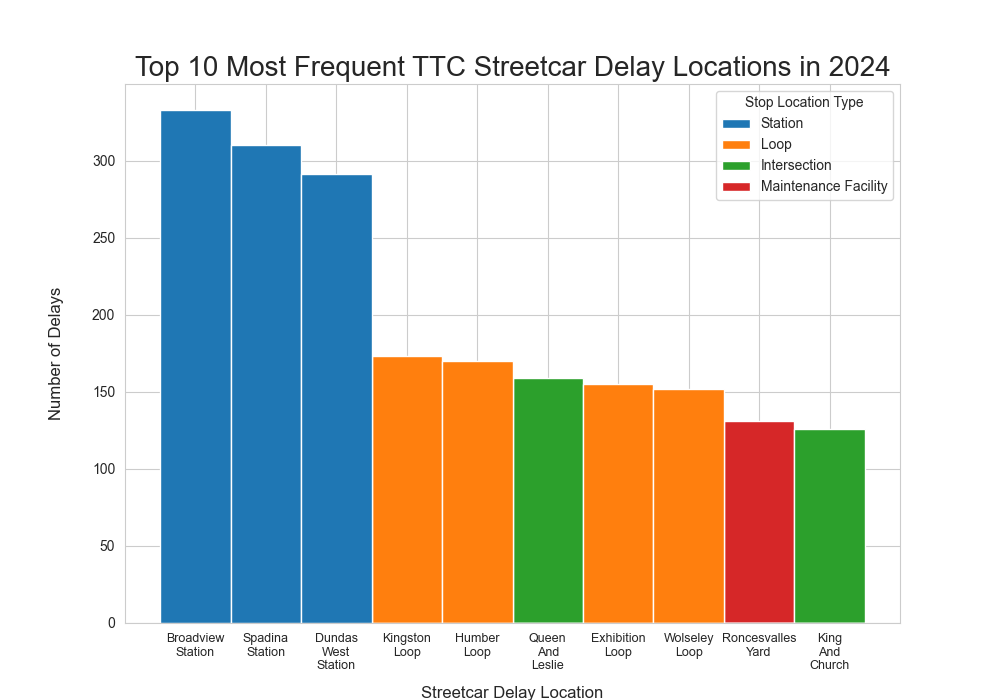
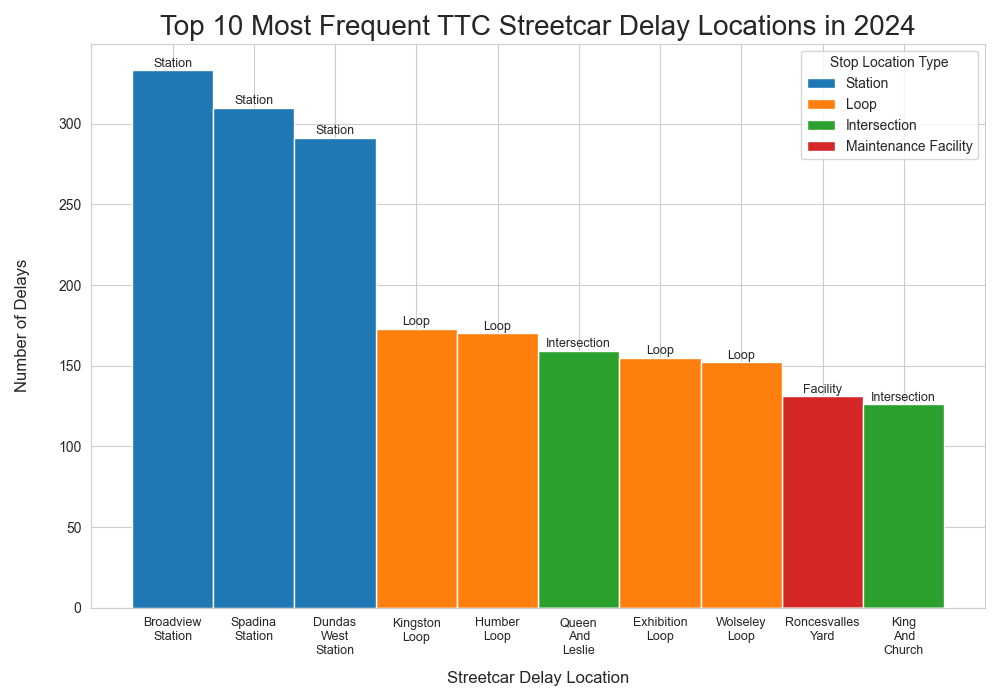
updated the assignment_3 markdown, added a screenshot of the excel spreadsheet, added accessibility features to the delay locations visualization

diff --git a/02_activities/assignments/ttc-delay.py b/02_activities/assignments/ttc-delay.py
@@ -82,5 +82,28 @@ frequent_stop_hist.set_ylabel('Number of Delays',
                               labelpad=20 # shifting axis label left for readability
                               )
 
+# labels for each bar
+bar_labels = ['Station', 'Station', 'Station', 'Loop', 'Loop', 'Intersection', 'Loop', 'Loop', 'Facility', 'Intersection']
+
+from collections import defaultdict
+
+category_heights = defaultdict(float)
+category_x = {}
+
+# Aggregate height by category (x-value)
+for patch in frequent_stop_hist.patches:
+    x_center = patch.get_x() + patch.get_width() / 2
+    category = round(x_center, 5)  # key by x-center
+    category_heights[category] += patch.get_height()
+    category_x[category] = patch.get_x() + patch.get_width() / 2
+
+# Apply labels on top of full bars
+for (x_center, height), label in zip(category_heights.items(), bar_labels):
+    frequent_stop_hist.text(
+        category_x[x_center], height + 0.5, label,
+        ha='center', va='bottom', fontsize=9
+    )
+
 plt.xticks(fontsize=9) # adjusting the font size of the ticks for readability
+plt.tight_layout()
 plt.show()

diff --git a/02_activities/assignments/assignment_3.md b/02_activities/assignments/assignment_3.md
@@ -27,7 +27,52 @@
 
 - This assignment is intentionally open-ended - you are free to create static or dynamic data visualizations, maps, or whatever form of data visualization you think best communicates your information to your audience of choice! 
 - Total word count should not exceed **(as a maximum) 1000 words** 
- 
+
+# Data Source
+
+For this project, I decided to use the database [02_activities/assignments/ttc-streetcar-delay-data-2024.csv](ttc-streetcar-delay-data-2024.csv) from the City of Toronto's Open Data website. This database contains information about all recorded delays of TTC Streetcars and includes information involving the date, the time, the incident type, etc. 
+
+# Visualization #1: Delay Locations
+
+
+
+The following is my first visualization made using seaborn using this python file [02_activities/assignments/ttc-delay.py](ttc-delay.py)
+
+![alt text](delay_locations.png)
+
+This is a bar graph which depicts the top 10 most frequent locations where streetcar delays occured where I coloured each bar according to the "type" of location where the stop occured. Namely, either a station, a loop (where streetcars turn around), an intersection, or a maintenance facility. My intended audience is a regular TTC streetcar rider who, like me, experiences delays and is curious about their cause. Although not what I expected, I find this graph conveys a message that delays seem to be unusually concentrated at stations and loops.
+
+While designing this graph, I decided to make a few decisions to make the content more understandable and readable. Namely, although there is a large variety of delay locations, I decided to limit the scope to just the top 10 delay locations. I thought a bar chart could most effectively express the magnitude of the number of delays since it uses length as the primary means of expression, which is generally quite easy for humans to understand. I also decided to order the bars by magnitude and colour them by stop type in order to make it reduce the cognitive load necessary to understand the relationship between the bars. Finally, I made the names of the bars on the horizontal axis as vertical strings to fit the names in fully. 
+
+This is fully reproducible as I have included the .csv file and used the relative path in the .py file. I also did all my data processing in the python file, so a user only has to hit run provided they have the necessary packages. I explicitly converted the database to .csv from .xslx so that the user does not need to have excel to access it.
+
+I tried my best to make this an accessible graph by using colour to better emphasize the stop locations and using labels on top of each of the bars to skirt around colour-blindness issues (thank you ChatGPT). I think also ordering the bars by size better emphasizes the relationships.
+
+Overall, the community who would be most impacted by this image would be frequent TTC streetcar riders. Delays at intersections are notable and frustrating events for a streetcar rider and this graphic helps clarify that the delays mostly are happening at stations. Now why that might be the case would require further exploration.
+
+A surprising amount of work went into this image. First, the TTC staff had to carefully log each delay together with a large variety of accompanying information. Second, the City of Toronto's data collection team then had to compile this into a database and display it on the website. Next, I had to do quite a bit of preprocessing the data to make it actually usable for making a graph. Finally, it was also quite the connundrum to add those damned labels to the top of the bars. I initially wanted to use patterns, but seaborn does not seem to work so nicely with those.
+
+# Visualization #2: Cause of Delay
+
+Below, you will find my second visualization made from the same data source.
+
+
+![alt text](causes_of_delay.png)
+
+It is a line graph which plots the top three causes of delay--operations, security, and mechanical issues--versus time measured in months. My intended audience for this visualization are people who are skeptical about using TTC due to a fear for their safety. In particular, I think it pretty well communicates that operational issues (issues with the operator/driver) are the main cause of TTC delays. This is informative as serious security incidents would cause delays and we see that these are relatively small compared to the operational delays. We also see that there is a surprising number of operator delays in August for some reason! Not too sure why, perhaps the nice weather is too distracting.
+
+In designing this visualization, I thought about how to most clearly display relationships between causes of delay. Namely, I reduced the scope to only 3 causes (there are many more). I also used various counting functions on Excel (and learned along the way that Excel sucks) to count each delay cause each month. Going day-to-day was too messy and hard to interpret. I also thought that a line graph would best show progression for each delay type category.
+
+Unfortunately, this is not the most reproducible visualization. I included a .csv file [02_activities/assignments/ttc-streetcar-delay-data-2024MODIFIED.csv](ttc-streetcar-delay-data-2024MODIFIED.csv) of the modified excel spreadsheet so that someone can potentially open it in excel to get the visualization. Here is a screenshot of what you may find inside
+
+ ![alt text](excel_screenshot.png)
+
+ The fact that hinders reproducibility is that someone may not have access to excel and so cannot get the graph back. I think looking at the quality of the visualization, you may agree that this isn't a big loss as using python is arguably vastly superior for control and for the visual appeal. The impact of the lack of reproducibility is that it will be hard for an interested party to check my work or explore my pre-processing in more detail.
+
+ Using the limited capacity of excel, I tried to make this visualization accessible by using colour to emphasize the difference between the lines. I also specifically used orange, blue, and black as I read online that these three contrast well for colour blind users. 
+
+ The underwater labour was the same for the TTC Delay Location visualization as far as data collection goes. As for my own work, doing heroic battle with excel and it's propensity to "auto-correct" things that ought not to be corrected was a major unseen labour. The actual visualization creation once the pre-processing was completed was quite easy as it only involved me clicking a button and making a few modifications.
+
 ### Why am I doing this assignment?:  
 - This ongoing assignment ensures active participation in the course, and assesses the learning outcomes: 
 * Create and customize data visualizations from start to finish in Python
